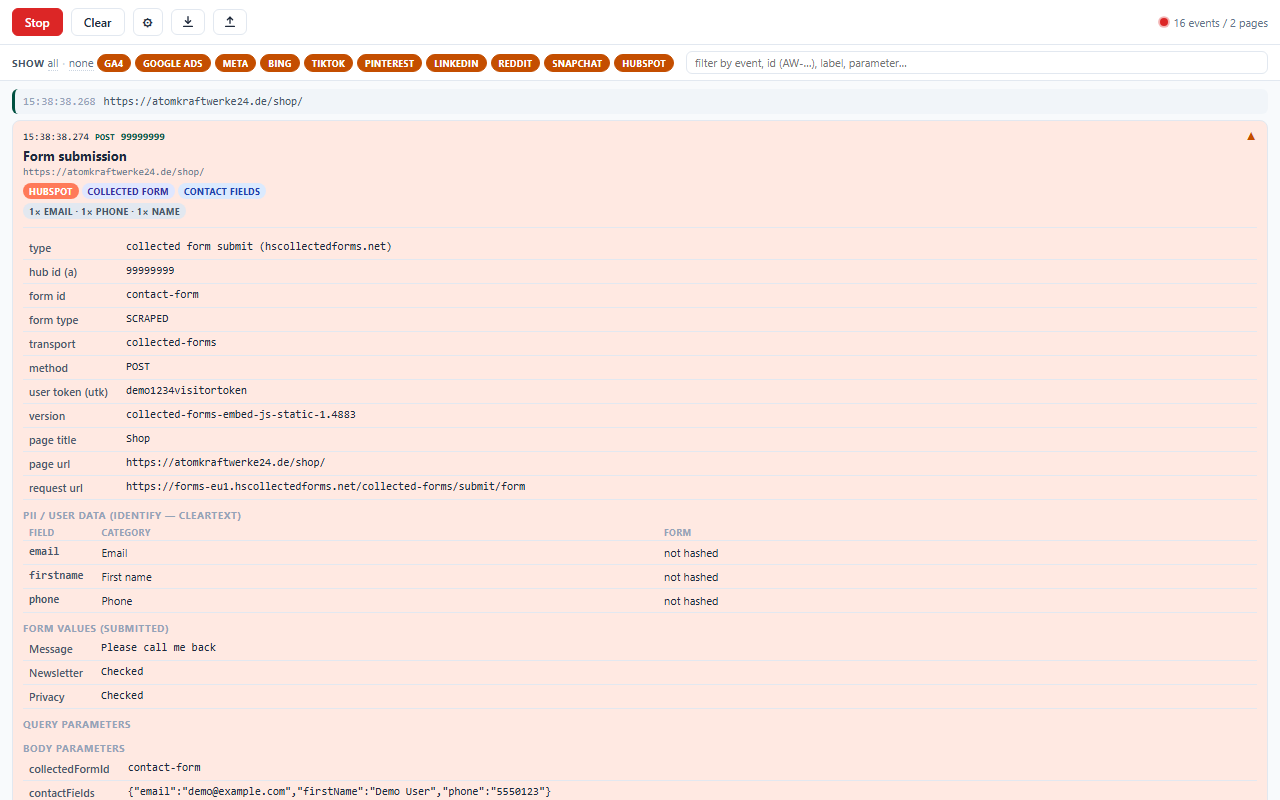
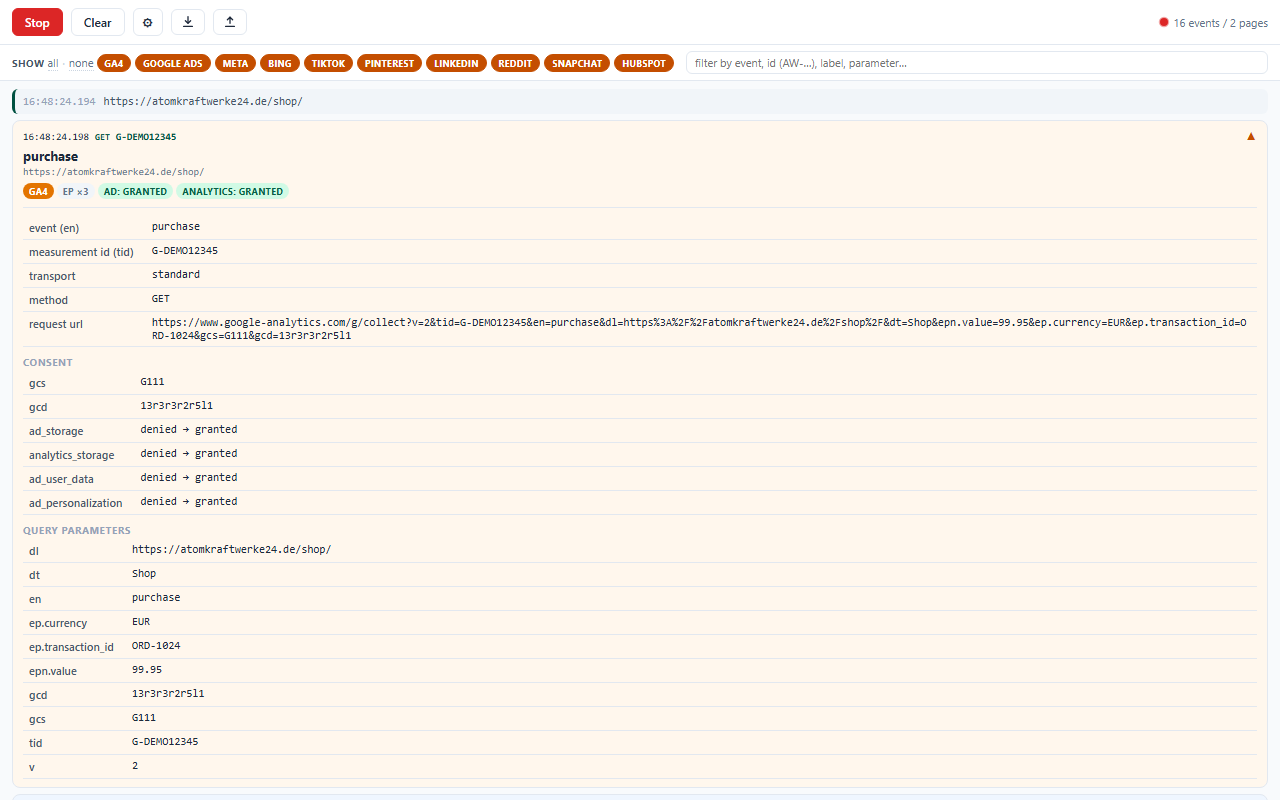
chore(webstore): lead screenshots with GA4, demote HubSpot
Reorder the demo capture so GA4 is each block's top card (Meta second)
and HubSpot sinks to the bottom. The store shots now headline the
extension's focus: 01/04 show GA4 over a diverse stream, 02 expands the
GA4 purchase, 03 pairs the settings/filter row with an expanded Meta card
instead of the niche HubSpot form.

03 toggles cards via the caret, not the body — an expanded card's centre
lands in the .ev-detail table, whose clicks panel.js ignores.

Changed region(s): [[0.0, 0.1562, 1.0, 1.0], [0.5, 0.6562, 0.5625, 0.7812]]

diff --git a/scripts/fixtures-demo.js b/scripts/fixtures-demo.js
@@ -48,8 +48,8 @@ const tiktokAddToCart = JSON.stringify({
 });
 
 // HubSpot Collected Forms submit — HubSpot scraping a filled form and shipping it
-// in cleartext. Fake contact data (demo@example.com), so it is safe to show; it
-// makes the top card a HubSpot form whose PII block reads "not hashed".
+// in cleartext. Fake contact data (demo@example.com), so it is safe to show; its
+// PII block reads "not hashed". Ordered as a lower card so GA4 leads the stream.
 const hubspotForm = JSON.stringify({
   contactFields: { email: 'demo@example.com', firstName: 'Demo User', phone: '5550123' },
   formSelectorId: '#contact-form',
@@ -59,51 +59,56 @@ const hubspotForm = JSON.stringify({
   version: 'collected-forms-embed-js-static-1.4883', collectedFormId: 'contact-form',
 });
 
-// Each block is one page load. requests[] are replayed in order.
+// Each block is one page load. requests[] are replayed in order, and the panel
+// stacks newest-on-top — so the LAST request in a block becomes that block's top
+// card. Order is deliberately GA4-last (top) and HubSpot-first (bottom): GA4 is
+// the extension's headline, so it leads every overview shot and is what
+// 02-event-detail expands; HubSpot stays visible but low. Meta sits second-to-top
+// so 03-settings-filter can expand a mainstream pixel rather than the niche form.
 export const DEMO_BLOCKS = [
   {
     navUrl: 'https://atomkraftwerke24.de/ectest.html',
     navTime: Date.parse(T0),
     requests: [
-      // GA4 page_view
-      { url: 'https://www.google-analytics.com/g/collect?v=2&tid=G-DEMO12345&en=page_view&dl=https%3A%2F%2Fatomkraftwerke24.de%2Fectest.html&dt=Enhanced%20Conversions%20Test%20Page&_p=1782761000&gcs=G111&gcd=13r3r3r2r5l1' },
-      // Meta PageView
-      { url: 'https://www.facebook.com/tr/?id=1402533720264604&ev=PageView&dl=https%3A%2F%2Fatomkraftwerke24.de%2Fectest.html' },
-      // Bing UET pageLoad
-      { url: 'https://bat.bing.com/action/0?ti=111111111111&tm=gtm002&Ver=2&mid=efaaf29c-46db-49ce-9945-7bfc2a75fb45&bo=3&msclkid=N&uach=pv%3D19.0.0&pi=918639831&lg=en-US&sw=1920&sh=1080&sc=32&tl=Enhanced%20Conversions%20Test%20Page&p=https%3A%2F%2Fatomkraftwerke24.de%2Fectest.html&r=https%3A%2F%2Ftagassistant.google.com%2F&lt=1323&evt=pageLoad&sv=2&asc=G&cdb=AQAS&rn=967217' },
-      // Pinterest init
-      { url: 'https://ct.pinterest.com/v3/?tid=2612345678901&pd=%7B%22np%22%3A%22gtm%22%2C%22em%22%3A%22e5c8e5ed5d033ebd4c707cc0f991a9940ba2e330483064eda4d068223fbefcab%22%7D&event=init&ad=%7B%22loc%22%3A%22https%3A%2F%2Fatomkraftwerke24.de%2Fectest.html%22%2C%22ref%22%3A%22https%3A%2F%2Ftagassistant.google.com%2F%22%2C%22is_eu%22%3Atrue%7D&cb=1782756170450' },
-      // Google Ads measurement page_view (ccm/collect, tid=AW-)
-      { url: 'https://www.google.com/ccm/collect?rcb=18&frm=0&auid=1235240376.1778240583&dt=Enhanced%20Conversions%20Test%20Page&en=page_view&dl=https%3A%2F%2Fatomkraftwerke24.de%2Fectest.html&dr=tagassistant.google.com&rnd=294733418.1782761414&navt=r&npa=0&gtm=45Pe66p0v9210171140&gcs=G111&gcd=13r3r3r2r5l1&dma=1&tids=AW-1071635065&tid=AW-1071635065&fmt=8' },
-      // TikTok Pageview (POST, JSON body)
-      { url: 'https://analytics.tiktok.com/api/v2/pixel', method: 'POST', postData: { text: tiktokPageview } },
+      // HubSpot page view (__ptq.gif) — bottom card of this block
+      { url: 'https://track-eu1.hubspot.com/__ptq.gif?a=99999999&v=1.1&pu=https%3A%2F%2Fatomkraftwerke24.de%2Fectest.html&t=Enhanced%20Conversions%20Test%20Page&vi=demo1234visitortoken&cts=1782761000&sd=1920x1080&cd=24-bit&cs=UTF-8&ln=en-US&u=99999999.demo1234visitortoken&b=99999999.1&cc=15' },
       // LinkedIn Insight Tag page view (px collect beacon)
       { url: 'https://px.ads.linkedin.com/collect?v=2&fmt=js&pid=12345678&time=1782761000&url=https%3A%2F%2Fatomkraftwerke24.de%2Fectest.html&tm=gtmv2' },
-      // HubSpot page view (__ptq.gif)
-      { url: 'https://track-eu1.hubspot.com/__ptq.gif?a=99999999&v=1.1&pu=https%3A%2F%2Fatomkraftwerke24.de%2Fectest.html&t=Enhanced%20Conversions%20Test%20Page&vi=demo1234visitortoken&cts=1782761000&sd=1920x1080&cd=24-bit&cs=UTF-8&ln=en-US&u=99999999.demo1234visitortoken&b=99999999.1&cc=15' },
+      // TikTok Pageview (POST, JSON body)
+      { url: 'https://analytics.tiktok.com/api/v2/pixel', method: 'POST', postData: { text: tiktokPageview } },
+      // Pinterest init
+      { url: 'https://ct.pinterest.com/v3/?tid=2612345678901&pd=%7B%22np%22%3A%22gtm%22%2C%22em%22%3A%22e5c8e5ed5d033ebd4c707cc0f991a9940ba2e330483064eda4d068223fbefcab%22%7D&event=init&ad=%7B%22loc%22%3A%22https%3A%2F%2Fatomkraftwerke24.de%2Fectest.html%22%2C%22ref%22%3A%22https%3A%2F%2Ftagassistant.google.com%2F%22%2C%22is_eu%22%3Atrue%7D&cb=1782756170450' },
+      // Bing UET pageLoad
+      { url: 'https://bat.bing.com/action/0?ti=111111111111&tm=gtm002&Ver=2&mid=efaaf29c-46db-49ce-9945-7bfc2a75fb45&bo=3&msclkid=N&uach=pv%3D19.0.0&pi=918639831&lg=en-US&sw=1920&sh=1080&sc=32&tl=Enhanced%20Conversions%20Test%20Page&p=https%3A%2F%2Fatomkraftwerke24.de%2Fectest.html&r=https%3A%2F%2Ftagassistant.google.com%2F&lt=1323&evt=pageLoad&sv=2&asc=G&cdb=AQAS&rn=967217' },
+      // Google Ads measurement page_view (ccm/collect, tid=AW-)
+      { url: 'https://www.google.com/ccm/collect?rcb=18&frm=0&auid=1235240376.1778240583&dt=Enhanced%20Conversions%20Test%20Page&en=page_view&dl=https%3A%2F%2Fatomkraftwerke24.de%2Fectest.html&dr=tagassistant.google.com&rnd=294733418.1782761414&navt=r&npa=0&gtm=45Pe66p0v9210171140&gcs=G111&gcd=13r3r3r2r5l1&dma=1&tids=AW-1071635065&tid=AW-1071635065&fmt=8' },
+      // Meta PageView (second-to-top)
+      { url: 'https://www.facebook.com/tr/?id=1402533720264604&ev=PageView&dl=https%3A%2F%2Fatomkraftwerke24.de%2Fectest.html' },
+      // GA4 page_view — top card of this block
+      { url: 'https://www.google-analytics.com/g/collect?v=2&tid=G-DEMO12345&en=page_view&dl=https%3A%2F%2Fatomkraftwerke24.de%2Fectest.html&dt=Enhanced%20Conversions%20Test%20Page&_p=1782761000&gcs=G111&gcd=13r3r3r2r5l1' },
     ],
   },
   {
     navUrl: 'https://atomkraftwerke24.de/shop/',
     navTime: Date.parse('2026-06-29T17:52:10.000Z'),
     requests: [
-      // GA4 purchase
-      { url: 'https://www.google-analytics.com/g/collect?v=2&tid=G-DEMO12345&en=purchase&dl=https%3A%2F%2Fatomkraftwerke24.de%2Fshop%2F&dt=Shop&epn.value=99.95&ep.currency=EUR&ep.transaction_id=ORD-1024&gcs=G111&gcd=13r3r3r2r5l1' },
-      // Meta Purchase
-      { url: 'https://www.facebook.com/tr/?id=1402533720264604&ev=Purchase&dl=https%3A%2F%2Fatomkraftwerke24.de%2Fshop%2F&cd%5Bvalue%5D=99.95&cd%5Bcurrency%5D=EUR' },
-      // Bing UET purchase
-      { url: 'https://bat.bing.com/action/0?ti=111111111111&tm=gtm002&Ver=2&mid=efaaf29c-46db-49ce-9945-7bfc2a75fb45&bo=6&msclkid=N&prodid=42&pagetype=purchase&ecomm_totalvalue=99.95&ecomm_category=Accessories&tpp=1&ea=purchase&gv=99.95&en=Y&p=https%3A%2F%2Fatomkraftwerke24.de%2Fshop%2F&sw=1920&sh=1080&sc=32&evt=custom&asc=G&cdb=AQAS&rn=957294' },
-      // Pinterest add to cart
-      { url: 'https://ct.pinterest.com/v3/?event=addtocart&ed=%7B%22np%22%3A%22gtm%22%2C%22order_id%22%3A%22ORD-1024%22%2C%22order_quantity%22%3A%221%22%2C%22value%22%3A99.95%2C%22currency%22%3A%22EUR%22%2C%22line_items%22%3A%5B%7B%22product_id%22%3A%22119%22%2C%22product_category%22%3A%22Accessories%22%7D%5D%7D&tid=2612345678901&pd=%7B%22np%22%3A%22gtm%22%2C%22em%22%3A%22e5c8e5ed5d033ebd4c707cc0f991a9940ba2e330483064eda4d068223fbefcab%22%7D&cb=1782756225395&ad=%7B%22loc%22%3A%22https%3A%2F%2Fatomkraftwerke24.de%2Fshop%2F%22%2C%22is_eu%22%3Atrue%7D' },
-      // Google Ads measurement add_to_cart
-      { url: 'https://www.google.com/ccm/collect?rcb=18&frm=0&ae=g&auid=1235240376.1778240583&dt=Shop&en=add_to_cart&dl=https%3A%2F%2Fatomkraftwerke24.de%2Fshop%2F&rnd=294733418.1782761414&navt=r&npa=0&epn.value=99.95&_tu=CA&gtm=45Pe66p0v9210171140&gcs=G111&gcd=13r3r3r2r5l1&dma=1&tids=AW-1071635065&tid=AW-1071635065&fmt=8' },
-      // TikTok AddToCart (POST, JSON body)
-      { url: 'https://analytics.tiktok.com/api/v2/pixel', method: 'POST', postData: { text: tiktokAddToCart } },
+      // HubSpot Collected Forms submit (cleartext contactFields) — bottom card;
+      // its PII block reads "not hashed" but it no longer leads the stream.
+      { url: 'https://forms-eu1.hscollectedforms.net/collected-forms/submit/form', method: 'POST', postData: { text: hubspotForm } },
       // LinkedIn Insight Tag conversion (px collect beacon, conversionId set)
       { url: 'https://px.ads.linkedin.com/collect?v=2&fmt=js&pid=12345678&time=1782761414&conversionId=111111111111&url=https%3A%2F%2Fatomkraftwerke24.de%2Fshop%2F&tm=gtmv2' },
-      // HubSpot Collected Forms submit (cleartext contactFields) — kept last so it
-      // is the newest, top card; 02-event-detail then expands its PII block.
-      { url: 'https://forms-eu1.hscollectedforms.net/collected-forms/submit/form', method: 'POST', postData: { text: hubspotForm } },
+      // Pinterest add to cart
+      { url: 'https://ct.pinterest.com/v3/?event=addtocart&ed=%7B%22np%22%3A%22gtm%22%2C%22order_id%22%3A%22ORD-1024%22%2C%22order_quantity%22%3A%221%22%2C%22value%22%3A99.95%2C%22currency%22%3A%22EUR%22%2C%22line_items%22%3A%5B%7B%22product_id%22%3A%22119%22%2C%22product_category%22%3A%22Accessories%22%7D%5D%7D&tid=2612345678901&pd=%7B%22np%22%3A%22gtm%22%2C%22em%22%3A%22e5c8e5ed5d033ebd4c707cc0f991a9940ba2e330483064eda4d068223fbefcab%22%7D&cb=1782756225395&ad=%7B%22loc%22%3A%22https%3A%2F%2Fatomkraftwerke24.de%2Fshop%2F%22%2C%22is_eu%22%3Atrue%7D' },
+      // TikTok AddToCart (POST, JSON body)
+      { url: 'https://analytics.tiktok.com/api/v2/pixel', method: 'POST', postData: { text: tiktokAddToCart } },
+      // Bing UET purchase
+      { url: 'https://bat.bing.com/action/0?ti=111111111111&tm=gtm002&Ver=2&mid=efaaf29c-46db-49ce-9945-7bfc2a75fb45&bo=6&msclkid=N&prodid=42&pagetype=purchase&ecomm_totalvalue=99.95&ecomm_category=Accessories&tpp=1&ea=purchase&gv=99.95&en=Y&p=https%3A%2F%2Fatomkraftwerke24.de%2Fshop%2F&sw=1920&sh=1080&sc=32&evt=custom&asc=G&cdb=AQAS&rn=957294' },
+      // Google Ads measurement add_to_cart
+      { url: 'https://www.google.com/ccm/collect?rcb=18&frm=0&ae=g&auid=1235240376.1778240583&dt=Shop&en=add_to_cart&dl=https%3A%2F%2Fatomkraftwerke24.de%2Fshop%2F&rnd=294733418.1782761414&navt=r&npa=0&epn.value=99.95&_tu=CA&gtm=45Pe66p0v9210171140&gcs=G111&gcd=13r3r3r2r5l1&dma=1&tids=AW-1071635065&tid=AW-1071635065&fmt=8' },
+      // Meta Purchase (second-to-top)
+      { url: 'https://www.facebook.com/tr/?id=1402533720264604&ev=Purchase&dl=https%3A%2F%2Fatomkraftwerke24.de%2Fshop%2F&cd%5Bvalue%5D=99.95&cd%5Bcurrency%5D=EUR' },
+      // GA4 purchase — top card overall; 02-event-detail expands this one
+      { url: 'https://www.google-analytics.com/g/collect?v=2&tid=G-DEMO12345&en=purchase&dl=https%3A%2F%2Fatomkraftwerke24.de%2Fshop%2F&dt=Shop&epn.value=99.95&ep.currency=EUR&ep.transaction_id=ORD-1024&gcs=G111&gcd=13r3r3r2r5l1' },
     ],
   },
 ];

diff --git a/scripts/generate-screenshots.js b/scripts/generate-screenshots.js
@@ -131,11 +131,16 @@ async function main() {
     await light.screenshot({ path: join(outDir, '01-overview.png') });
     shots.push('01-overview.png');
 
-    await light.locator('.ev').first().click();   // expand the first card's parameter table
+    await light.locator('.ev').first().click();   // expand the top card (GA4 purchase)
     await light.evaluate(() => window.scrollTo(0, 0));
     await light.screenshot({ path: join(outDir, '02-event-detail.png') });
     shots.push('02-event-detail.png');
 
+    // Toggle via the caret, not the card body: an expanded card's centre lands in
+    // the .ev-detail table, whose clicks are ignored (panel.js), so a body-click
+    // would never collapse it.
+    await light.locator('.ev').first().locator('.ev-caret').click();   // collapse GA4 again
+    await light.locator('.ev').nth(1).locator('.ev-caret').click();    // expand the Meta card instead
     await light.click('#settingsBtn');             // reveal the capture-settings row
     await light.evaluate(() => window.scrollTo(0, 0));
     await light.screenshot({ path: join(outDir, '03-settings-filter.png') });
